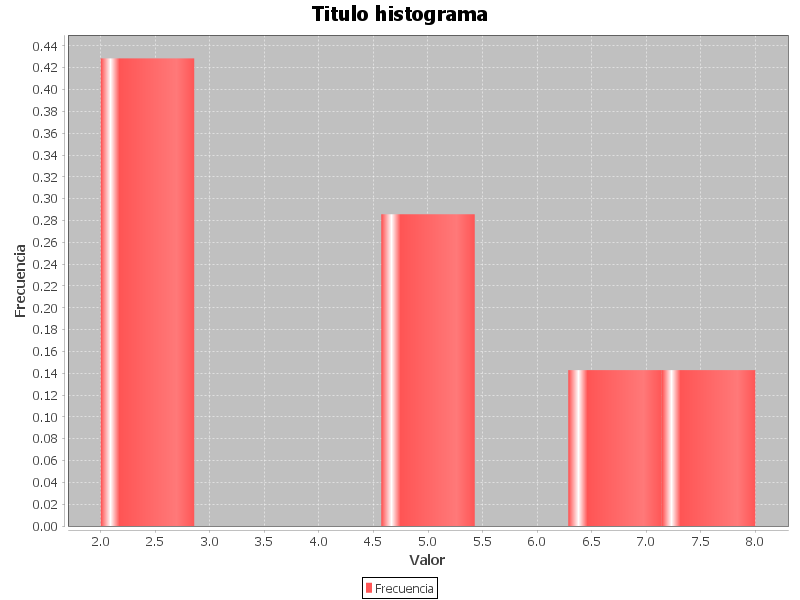
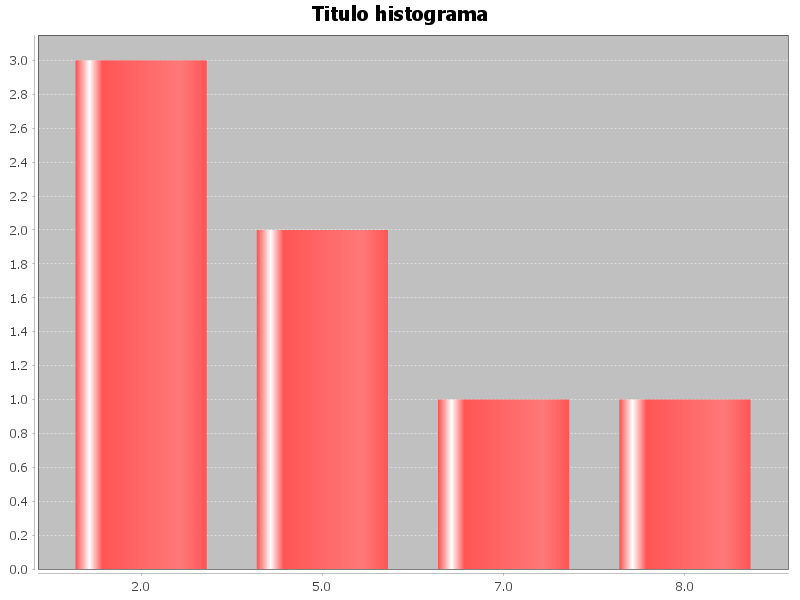
graficas generadas

diff --git a/Proyecto1/src/Graficas/GeneradorGraficas.java b/Proyecto1/src/Graficas/GeneradorGraficas.java
@@ -11,7 +11,10 @@ import org.jfree.chart.ChartUtilities;
 import org.jfree.data.category.DefaultCategoryDataset;
 import java.io.File;
 import java.io.IOException;
+import java.util.HashMap;
 import java.util.List;
+import java.util.Map;
+import java.util.TreeMap;
 import org.jfree.data.general.DefaultPieDataset;
 import org.jfree.chart.labels.StandardPieSectionLabelGenerator;
 import org.jfree.chart.plot.PiePlot;
@@ -128,39 +131,46 @@ public class GeneradorGraficas {
     }
 
 
-    public static ChartPanel generarHistograma(GraficaHistoInfo graficaHisto) {
-        HistogramDataset dataset = new HistogramDataset();
-        dataset.setType(HistogramType.RELATIVE_FREQUENCY);
-    
-        // Convertir la lista de valores Double a un array primitivo
-        double[] values = new double[graficaHisto.getValues().size()];
-        for (int i = 0; i < values.length; i++) {
-            values[i] = graficaHisto.getValues().get(i);
-        }
-    
-        dataset.addSeries("Frecuencia", values, values.length);
-    
-        JFreeChart histogram = ChartFactory.createHistogram(
-                graficaHisto.getTitulo(),
-                "Valor",
-                "Frecuencia",
-                dataset,
-                PlotOrientation.VERTICAL,
-                true,   // Muestra la leyenda
-                true,   // Tooltips
-                false   // URLs
-        );
-    
-        // Guardar el histograma como imagen PNG
-        try {
-            ChartUtilities.saveChartAsPNG(new File(graficaHisto.getTitulo() + ".png"), histogram, 800, 600);
-           // System.out.println("Histograma guardado como imagen PNG.");
-        } catch (IOException e) {
-            System.err.println("Error al guardar el histograma como imagen PNG: " + e.getMessage());
-        }
-    
-        return new ChartPanel(histogram);
-    }
+    public static ChartPanel generarHistograma(GraficaHistoInfo graficaHistoInfo) {
+     // Utilizar TreeMap para ordenar y contar la frecuencia de los valores
+     TreeMap<Double, Integer> map = new TreeMap<>();
+     for (Double value : graficaHistoInfo.getValues()) {
+         map.put(value, map.getOrDefault(value, 0) + 1);
+     }
+ 
+     DefaultCategoryDataset dataset = new DefaultCategoryDataset();
+     
+     // Añadir los valores al dataset
+     for (Map.Entry<Double, Integer> entry : map.entrySet()) {
+         dataset.addValue(entry.getValue(), "Frecuencia", entry.getKey());
+     }
+ 
+     // Crear el gráfico de barras
+     JFreeChart chart = ChartFactory.createBarChart(
+             graficaHistoInfo.getTitulo(),
+             null, // Eje X sin título
+             null, // Eje Y sin título
+             dataset,
+             PlotOrientation.VERTICAL,
+             false, // No mostrar leyenda
+             true, // Tooltips
+             false // URLs
+     );
+ 
+     // Opciones adicionales del gráfico
+     //chart.getCategoryPlot().getDomainAxis().setVisible(false); // Ocultar etiquetas del eje X
+     //chart.getCategoryPlot().getRangeAxis().setVisible(false); // Ocultar etiquetas del eje Y
+ 
+     // Guardar el histograma como imagen PNG
+     try {
+         ChartUtilities.saveChartAsPNG(new File(graficaHistoInfo.getTitulo() + ".png"), chart, 800, 600);
+         //System.out.println("Histograma guardado como imagen PNG.");
+     } catch (IOException e) {
+         System.err.println("Error al guardar el histograma como imagen PNG: " + e.getMessage());
+     }
+ 
+     return new ChartPanel(chart);
+ }
 
     public static void generarTodasLasGraficasHisto(List<GraficaHistoInfo> listaGraficasHisto) {
         for (GraficaHistoInfo graficaHisto : listaGraficasHisto) {
